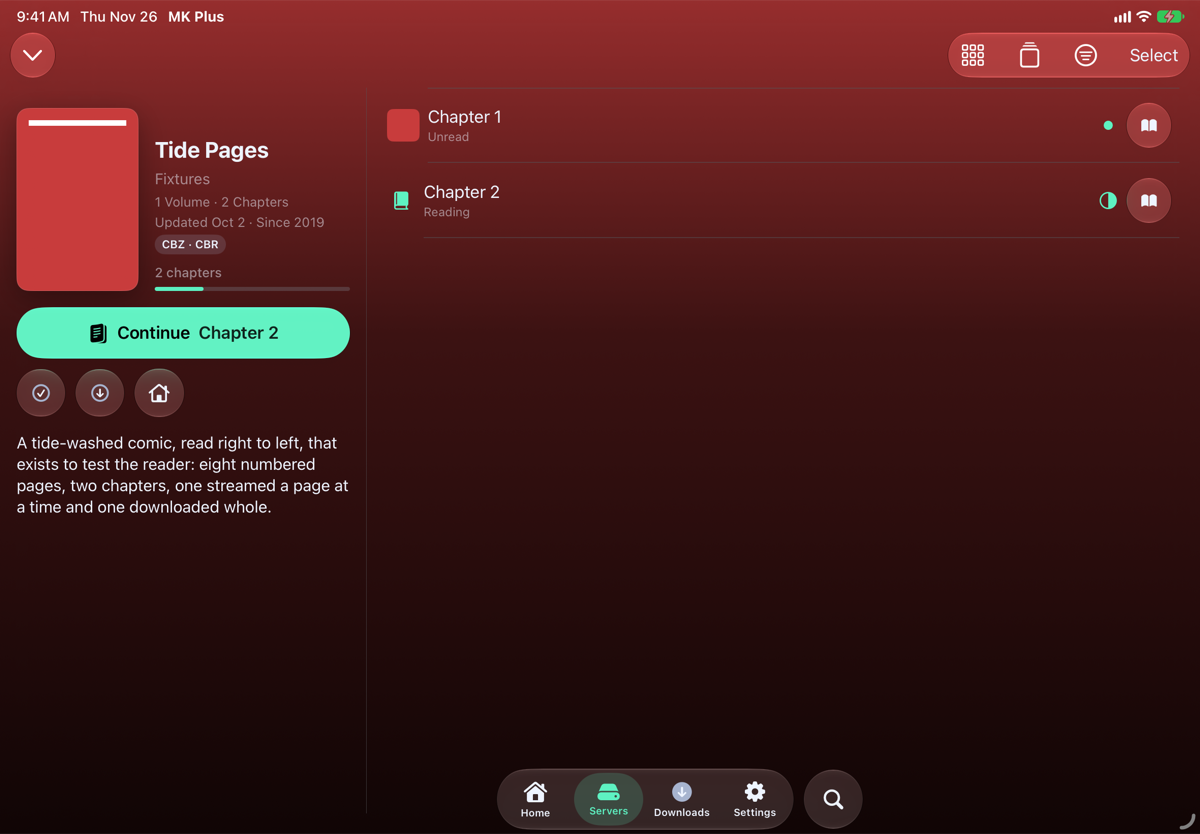
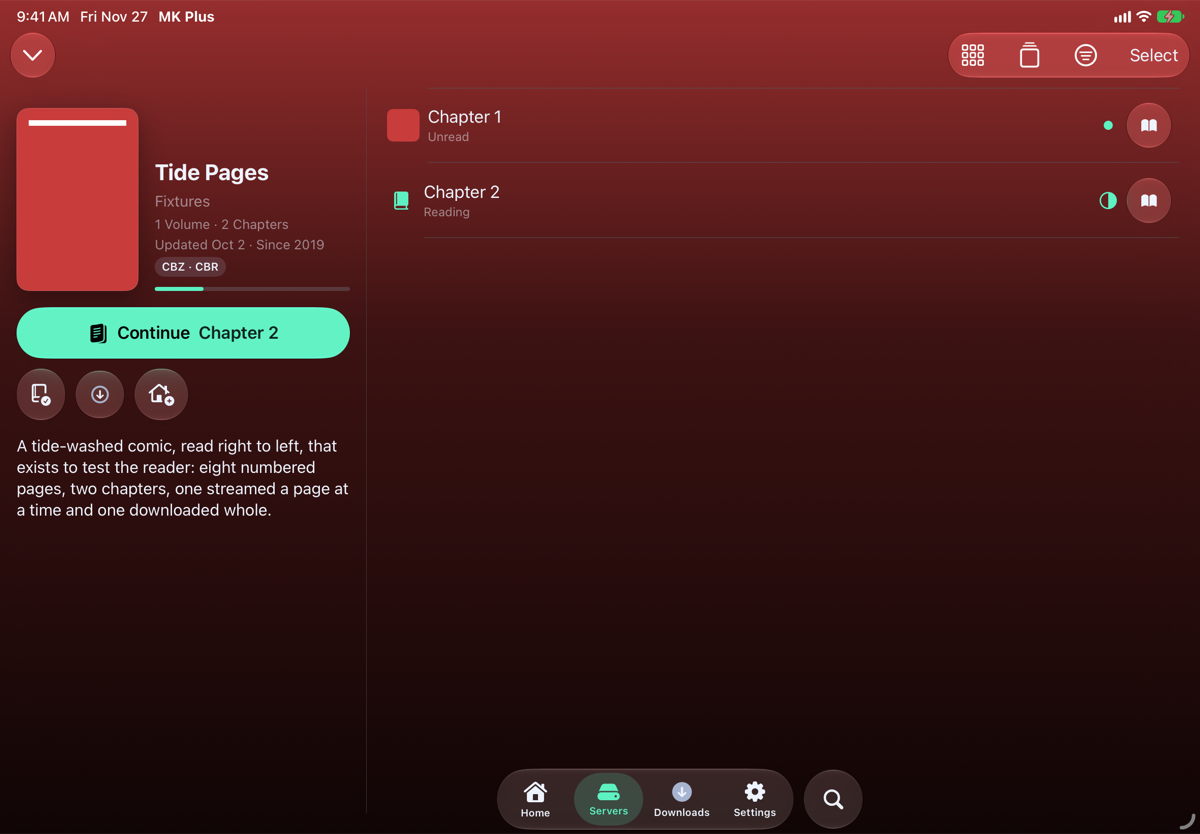
Publish the guide (from 88f50951)

Changed region(s): [[0.0, 0.4365, 0.3083, 0.6235], [0.1233, 0.1559, 0.2775, 0.3429], [0.0617, 0.0, 0.185, 0.0312]]

diff --git a/OPDS-Catalogs.md b/OPDS-Catalogs.md
@@ -99,12 +99,12 @@ A library's series show as covers, three across or more. The library's name is a
 ### A series
 
 <div class="shot" markdown="0">
-<div class="shot-variant shot-iphone-18-pro-max"><img src="images/iphone-18-pro-max/books-series.png" alt="A series with its volumes and read marks, each chapter in the list with a round Read button, on an iPhone 18 Pro Max" loading="lazy"><div class="shot-label">iPhone 18 Pro Max</div></div>
-<div class="shot-variant shot-duo-front"><img src="images/duo-front/books-series.png" alt="A series with its volumes and read marks, each chapter in the list with a round Read button, on the iPhone Duo, closed" loading="lazy"><div class="shot-label">iPhone Duo — closed</div></div>
-<div class="shot-variant shot-duo-open-side"><img src="images/duo-open-side/books-series.png" alt="A series with its volumes and read marks, each chapter in the list with a round Read button, on the iPhone Duo, open on its side" loading="lazy"><div class="shot-label">iPhone Duo — open, on its side</div></div>
+<div class="shot-variant shot-iphone-18-pro-max"><img src="images/iphone-18-pro-max/books-series.png" alt="The Tide Pages series on an iPhone 18 Pro Max: its cover and details, a Continue Chapter 2 button with Mark as Read, Download and Add to Home beside it, the summary, and All Chapters listing each chapter with its read mark and a round Read button, on an iPhone 18 Pro Max" loading="lazy"><div class="shot-label">iPhone 18 Pro Max</div></div>
+<div class="shot-variant shot-duo-front"><img src="images/duo-front/books-series.png" alt="The Tide Pages series on an iPhone 18 Pro Max: its cover and details, a Continue Chapter 2 button with Mark as Read, Download and Add to Home beside it, the summary, and All Chapters listing each chapter with its read mark and a round Read button, on the iPhone Duo, closed" loading="lazy"><div class="shot-label">iPhone Duo — closed</div></div>
+<div class="shot-variant shot-duo-open-side"><img src="images/duo-open-side/books-series.png" alt="The Tide Pages series on an iPhone 18 Pro Max: its cover and details, a Continue Chapter 2 button with Mark as Read, Download and Add to Home beside it, the summary, and All Chapters listing each chapter with its read mark and a round Read button, on the iPhone Duo, open on its side" loading="lazy"><div class="shot-label">iPhone Duo — open, on its side</div></div>
 </div>
 
-A series page shows its cover, summary and progress, and a button for what to read next. The button says **Start Reading**, **Continue**, **Read Next** or **Read Again**, whichever fits where you are. **Volumes** and **Chapters** switch between the two when a series has both.
+A series page shows its cover, summary and progress, and a button for what to read next. The button says **Start Reading**, **Continue**, **Read Next** or **Read Again**, whichever fits where you are. When a series has both volumes and chapters, a row of covers above the list shows one kind at a time, and **Volumes** and **Chapters** switch between them.
 
 Each book in the list says how far you've got: **Read** with a check mark in a circle, the page you're on (**Page 12 of 40**) with a half-filled circle, or **Unread** with a dot. The same goes for a folder of comics on a share.
 
@@ -114,16 +114,16 @@ The filter button shows only the **Unread**, **Reading** or **Read** books, or *
 
 A list of books starts sorted by **Series**: series names A to Z, then each book's place in its series. The place comes from the catalog where it says, otherwise from the book's title, such as "Saga Vol. 3". The sort button changes it, and Settings → **Catalogs** → **Sort Books by Series** turns it off.
 
-The check-mark button next to the next-up button marks every book in the series as read in one go (or unread, once it's all read): it asks first, and **Mark as Read** (or **Mark as Unread**) confirms.
+The **Mark as Read** button next to the next-up button, a book with a tick, marks every book in the series as read in one go (or unread, once it's all read): it asks first, and **Mark as Read** (or **Mark as Unread**) confirms.
 
 If you'd rather not have series pages, turn off Settings → **Catalogs** → **Series Pages**.
 
 ### A book's page
 
-Tapping a book opens its page, the way a movie opens its own: the cover, title and author, the series it's in and where, its pages and size, how far you've read and its summary. **Read** opens the book (**Continue** once you've started, **Read Again** once you've finished), and closing the book brings you back to its page. The check-mark button beside it marks the book read or unread.
+Tapping a book opens its page, the way a movie opens its own: the cover, title and author, the series it's in and where, its pages and size, how far you've read and its summary. **Read** opens the book (**Continue** once you've started, **Read Again** once you've finished), and closing the book brings you back to its page. The **Mark as Read** button beside it, a book with a tick, marks the book read or unread.
 
 <div class="shot" markdown="0">
-<div class="shot-variant shot-iphone-18-pro-max"><img src="images/iphone-18-pro-max/book-page.png" alt="A book's page on an iPhone 18 Pro Max: the cover of The Gift of the Magi beside its title, author, format and Unread mark, with a wide Read button and the check-mark button under them, on an iPhone 18 Pro Max" loading="lazy"><div class="shot-label">iPhone 18 Pro Max</div></div>
+<div class="shot-variant shot-iphone-18-pro-max"><img src="images/iphone-18-pro-max/book-page.png" alt="A book's page on an iPhone 18 Pro Max: the cover of The Gift of the Magi beside its title, author, format and Unread mark, with a wide Read button and the Mark as Read button beside it, on an iPhone 18 Pro Max" loading="lazy"><div class="shot-label">iPhone 18 Pro Max</div></div>
 </div>
 
 Each book's cover in the list has a **Read** button too, which opens the book straight away without its page: a labelled button on big covers, a round one on small covers and in a list.

diff --git a/whats-new.md b/whats-new.md
@@ -12,6 +12,33 @@ The highlights of each MK Plus update since public TestFlight testing began (ver
 
 ## November 2026
 
+### A tidier series page, and fixes for the iPhone Duo
+
+_Version 1.429.0 · 27 November 2026_
+
+- A series page no longer shows its chapters or their count twice.
+- Mark as Read and Add to Home have their own symbols, a book with a tick and a house with a plus.
+- A video that can't play shows only its message and one Close.
+
+<img src="images/iphone-18-pro-max/books-series.png" width="300" alt="The Tide Pages series on an iPhone 18 Pro Max: its cover and details, a Continue Chapter 2 button with Mark as Read (a book with a tick), Download and Add to Home (a house with a plus) beside it, the summary, and All Chapters listing each chapter once">
+
+<details markdown="1">
+<summary>Everything in 1.429.0</summary>
+
+**Changed**
+
+- A series page shows its shelf of covers only when it holds something the list under it doesn't, such as volumes and chapters. The chapter count isn't repeated over the progress bar.
+- Mark as Read is now a book with a tick, and Add to Home a house with a plus, so they don't look like the tab bar's Select and Home.
+- When a video can't play, the player shows its title, the message and one Close button, without controls that can't do anything.
+
+**Fixed**
+
+- On the open iPhone Duo held upright, Home's Downloads row has margins like the widgets above it.
+- In Search on the folded iPhone Duo, the tab bar stops above the keyboard and scrolls to Settings and Search.
+- Home's carousel keeps its cover small enough to show the title and details on a short screen.
+
+</details>
+
 ### Copies between servers no longer need room on your iPhone
 
 _Version 1.428.0 · 27 November 2026_
@@ -129,7 +156,7 @@ _Version 1.422.0 · 25 November 2026_
 - Lists of books start sorted by series, then by each book's place in it.
 - An EPUB's text no longer moves when its controls show or hide.
 
-<img src="images/iphone-18-pro-max/book-page.png" width="300" alt="A book's page on an iPhone 18 Pro Max: the cover of The Gift of the Magi beside its title, author, format and Unread mark, with a wide Read button and the check-mark button under them">
+<img src="images/iphone-18-pro-max/book-page.png" width="300" alt="A book's page on an iPhone 18 Pro Max: the cover of The Gift of the Magi beside its title, author, format and Unread mark, with a wide Read button and the Mark as Read button beside it">
 
 <details markdown="1">
 <summary>Everything in 1.422.0</summary>
